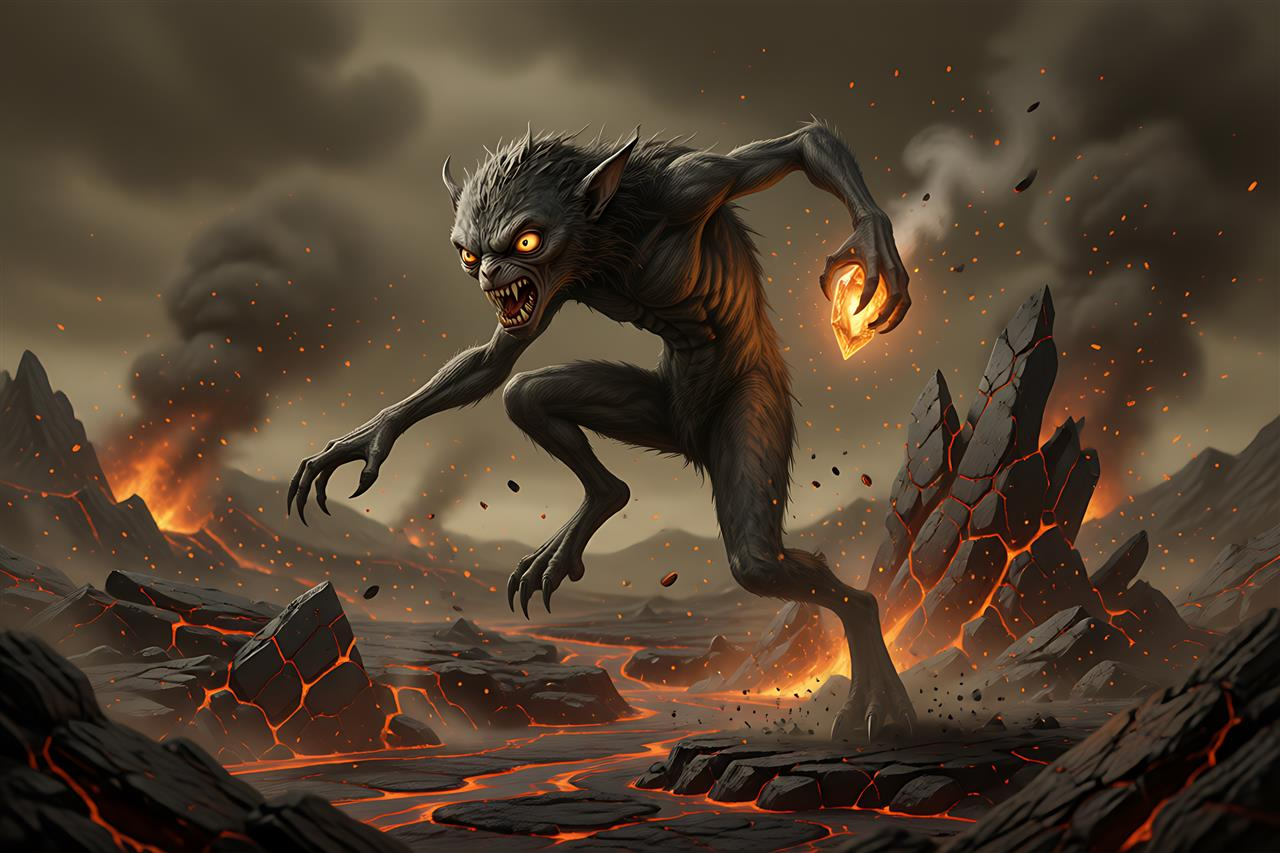
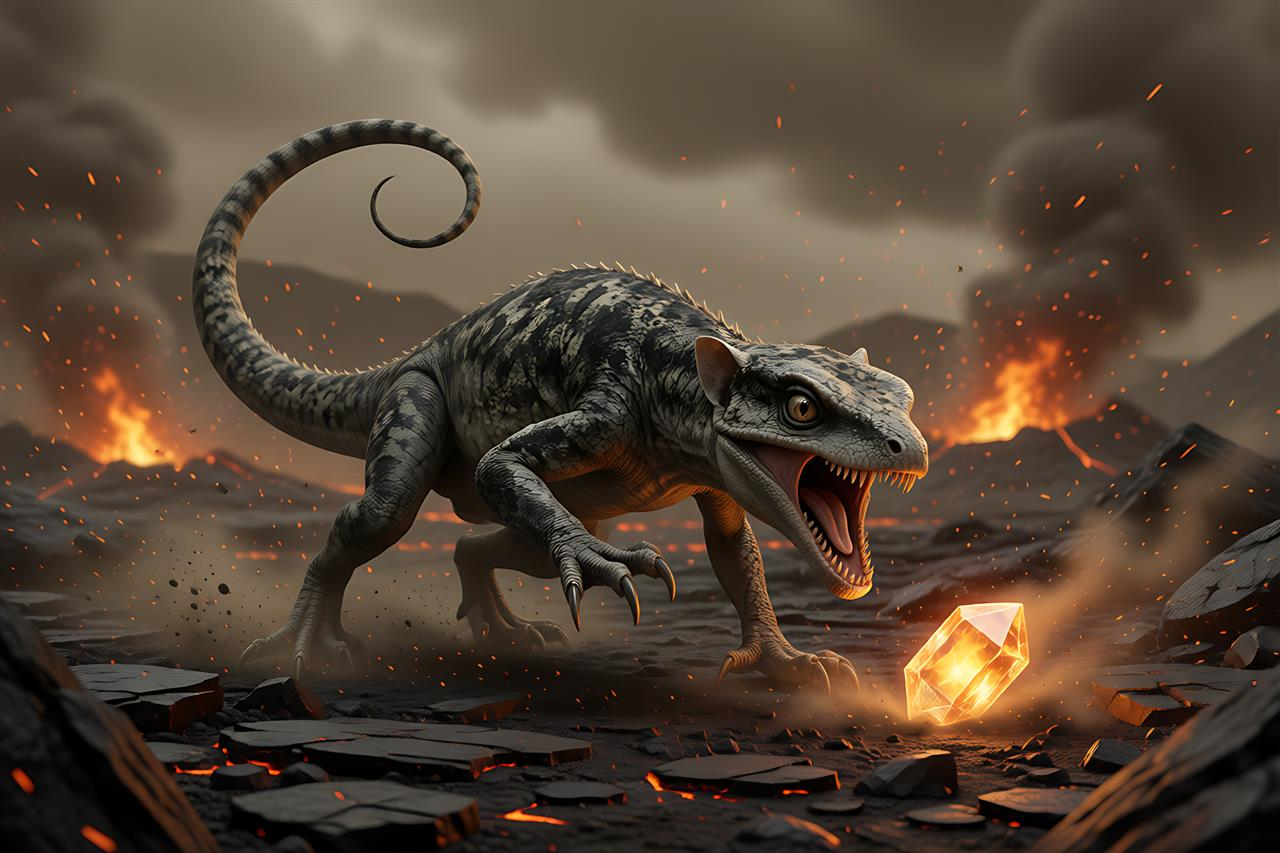
art: пепельный вор — ящерица, три состояния перегенерированы

diff --git a/FG/AgentScripts/ProbeMonsterArt.cs b/FG/AgentScripts/ProbeMonsterArt.cs
@@ -1,0 +1,47 @@
+using System.Reflection;
+using UnityEngine;
+using UnityEngine.UIElements;
+
+/// <summary>Показывает модал с артом пепельного вора поверх похода.</summary>
+public static class ProbeMonsterArt
+{
+    private const BindingFlags Flags = BindingFlags.NonPublic | BindingFlags.Instance;
+
+    public static string Run()
+    {
+        var screen = Object.FindAnyObjectByType<ForestGuild.Game.MapScreen>();
+        var type = screen.GetType();
+
+        try
+        {
+            type.GetMethod("ShowMenu", Flags).Invoke(screen, null);
+            type.GetMethod("StartScenario", Flags).Invoke(screen, new object[] { "expedition" });
+        }
+        catch (System.Exception e)
+        {
+            var inner = e.InnerException ?? e;
+            var trace = inner.StackTrace ?? "";
+            var head = trace.Length > 220 ? trace.Substring(0, 220) : trace;
+            return "ошибка: " + inner.GetType().Name + ": " + inner.Message + " @ " + head.Replace("\n", " | ");
+        }
+
+        var root = screen.GetComponent<UIDocument>().rootVisualElement;
+
+        // Останавливаем тик похода, иначе он перепишет модал ближайшей встречей.
+        screen.Expedition.GetType().GetMethod("TogglePause", Flags).Invoke(screen.Expedition, null);
+
+        var modal = root.Q<VisualElement>("monster-modal");
+        var art = root.Q<VisualElement>("monster-art");
+
+        art.ClearClassList();
+        art.AddToClassList("monster-art");
+        art.AddToClassList("monster-art-ash-search");
+
+        root.Q<Label>("monster-title").text = "ВСТРЕЧА: Пепельный вор";
+        root.Q<Label>("monster-body").text = "Проверка арта ящерицы.";
+        root.Q<VisualElement>("monster-options").Clear();
+
+        modal.RemoveFromClassList("hidden");
+        return "shown";
+    }
+}

diff --git a/FG/AgentScripts/ProbeScreenState.cs b/FG/AgentScripts/ProbeScreenState.cs
@@ -1,0 +1,27 @@
+using System.Linq;
+using System.Reflection;
+using UnityEngine;
+
+/// <summary>Сколько MapScreen в сцене и жив ли _menu.</summary>
+public static class ProbeScreenState
+{
+    private const BindingFlags Flags = BindingFlags.NonPublic | BindingFlags.Instance;
+
+    public static string Run()
+    {
+        var all = Object.FindObjectsByType<ForestGuild.Game.MapScreen>(FindObjectsSortMode.None);
+        var text = "instances=" + all.Length;
+
+        foreach (var screen in all)
+        {
+            var menu = screen.GetType().GetField("_menu", Flags).GetValue(screen);
+            var world = screen.World;
+            text += " | active=" + screen.isActiveAndEnabled
+                + " enabled=" + screen.enabled
+                + " menu=" + (menu != null)
+                + " world=" + (world != null);
+        }
+
+        return text;
+    }
+}

diff --git a/docs/design.md b/docs/design.md
@@ -140,7 +140,7 @@
 - **Дорога:** 1 час, через две соседние зоны окраины.
 - **Среда:** вулканическая взвесь, тяжело дышать — −1 выносливости за каждые 2 часа; вода горячая, зелья портятся (шанс на каждое взятое).
 - **Ресурсы:** огненная крапива (жжётся, сбор голыми руками = рана; алхимия), пепельный лишай (впитывает жар; фильтры от взвеси), стеклянница (стебли-стекло; сосуды и наждак), обсидиановая руда (острое, но хрупкое оружие), серный натёк (подрыв гнёзд).
-- **Твари:** искромёт (быстрый, плюётся огнём, поджигает груз), костяной бегун (броня, гасит удары, нужен тяжёлый удар), пепельный вор (падальщик, таскает кристаллы в гнездо).
+- **Твари:** искромёт (быстрый, плюётся огнём, поджигает груз), костяной бегун (броня, гасит удары, нужен тяжёлый удар), пепельный вор (ящерица-падальщик: быстрая, таскает кристаллы в гнездо).
 
   Это **три твари Вулканических ключей** — набор локации, не общий лесной бестиарий; у других зон будут свои.
   У каждой три состояния арта в `FG/Assets/UI/Art/Monsters/`: `<art>_search.jpg` (встреча), `<art>_attack.jpg`

diff --git a/docs/current/2026-11-07-ui-slice/result.md b/docs/current/2026-11-07-ui-slice/result.md
@@ -506,6 +506,8 @@
 
 **Правка Искромёта по замечанию:** атака переснята **без огненного плевка из пасти** (только поза броска, когти и искры из трещин); мёртвый — переснят **с закрытыми глазами** и несколькими глубокими ранами, кровь на шкуре и в луже под телом. Поиск оставлен прежним — он и нравился.
 
+**Правка вора:** выяснилось, что это не пушистый падальщик, а **ящерица**. Все три состояния перегенерированы: серо-пепельная чешуя с тёмным узором, длинный хвост-плеть, узкая голова, кристалл в пасти (в поиске) и на земле (в атаке и у мёртвого). Мёртвый — с закрытыми глазами, ранами и кровью.
+
 ## Заметки на будущее
 
 - `UIDocument.panelSettings`, назначенный сеттером из скриптовой сборки сцены, **не сериализуется** (`m_PanelSettings: {fileID: 0}`) — экран чёрный. Ставить через `SerializedObject` и сохранять сцену.
